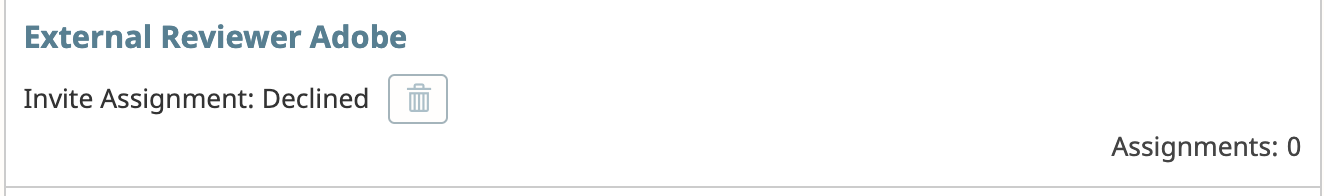
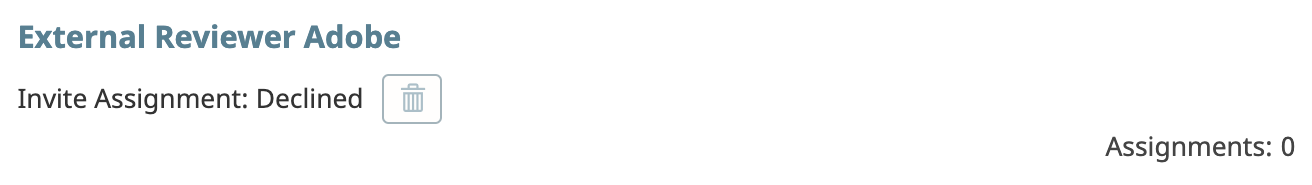
Optimize images

diff --git a/pages/faq.js b/pages/faq.js
@@ -268,6 +268,7 @@ There are two ways to create assignments:
 <img src="/images/faq-reviewer-accepted.png" alt="Reviewer Accepted" class="img-answer"/></br>
 
 Some reviewers have a custom reduced paper load which appears in the edge browser as 'Custom Max Papers'. You cannot directly assign a reviewer to more papers than their custom max papers, but you can 'Invite' reviewers if that option is enabled for you. You can also filter out reviewers who have met their quota with the checkbox 'Only show reviewers with fewer than max assigned papers.'
+
 <img src="/images/faq-assign-button-disabled.png" alt="Assign Button Disabled" class="img-answer"/></br>
 
 `,

diff --git a/styles/pages/faq.less b/styles/pages/faq.less
@@ -27,6 +27,7 @@ main.faq {
     .img-answer {
       width: 500px;
       border: 1px solid #ccc;
+      padding-bottom: 0;
       margin-top: 0.25rem;
       margin-bottom: 0.25rem;
     }
